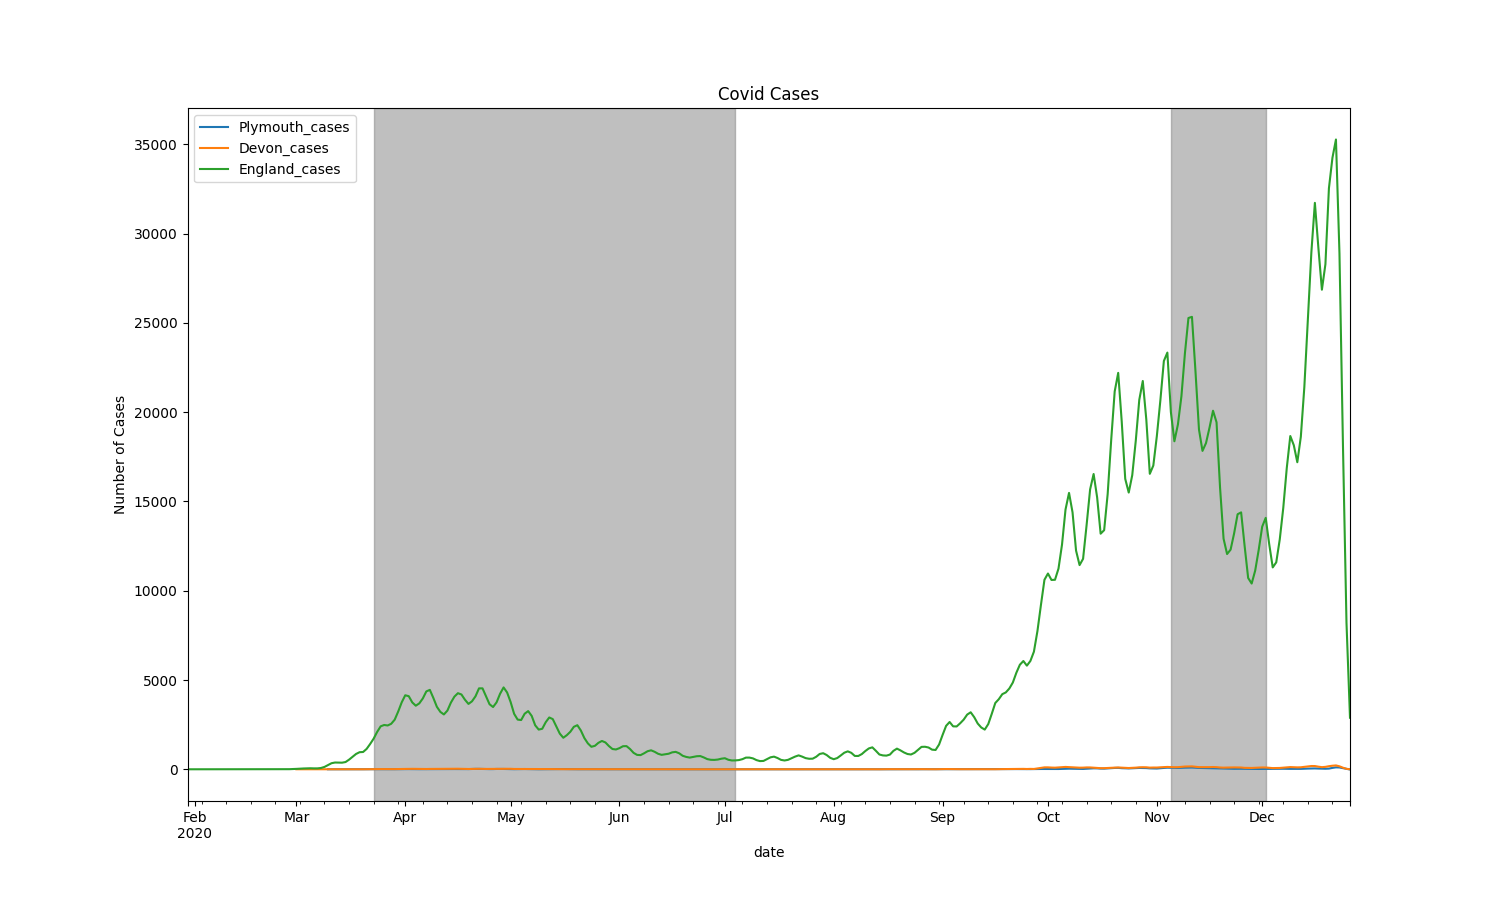
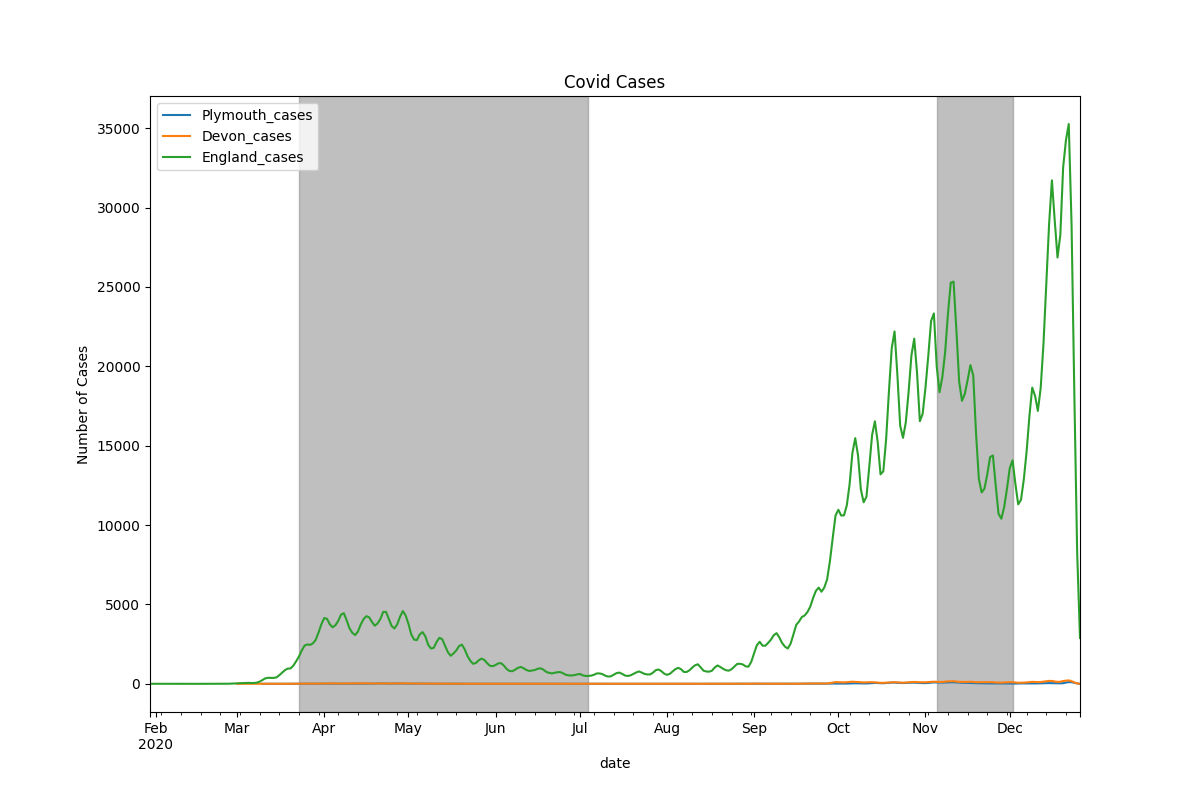
slightly smaller images, to display better

diff --git a/main.py b/main.py
@@ -52,7 +52,7 @@ def average_smoothing(y, window_size=3):
 
 def plot_data(df, highlights=lockdowns, output_figure='images/plymouth_covid_graph.png'):
 	# plt.figure()
-	df.plot(x='date', figsize=(15,9))
+	df.plot(x='date', figsize=(12,8))
 	for h in highlights:
 		plt.axvspan(h[0], h[1], color='grey', alpha=0.5)
 	plt.ylabel('Number of Cases') 
@@ -61,7 +61,7 @@ def plot_data(df, highlights=lockdowns, output_figure='images/plymouth_covid_gra
 
 def plot_data_pht(df, highlights=lockdowns, output_figure='images/plymouth_covid_graph_pht.png'):
 	df = data_to_pht(df)
-	df.plot(x='date', figsize=(15,9))
+	df.plot(x='date', figsize=(12,8))
 	for h in highlights:
 		plt.axvspan(h[0], h[1], color='grey', alpha=0.5)
 	plt.ylabel('Number of Cases Per 100,000') 
